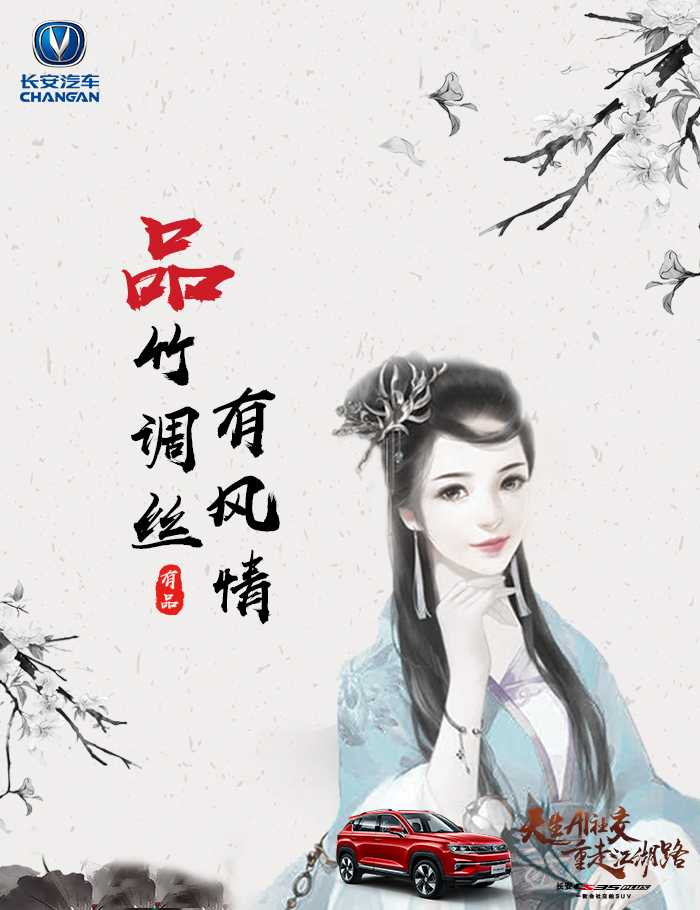
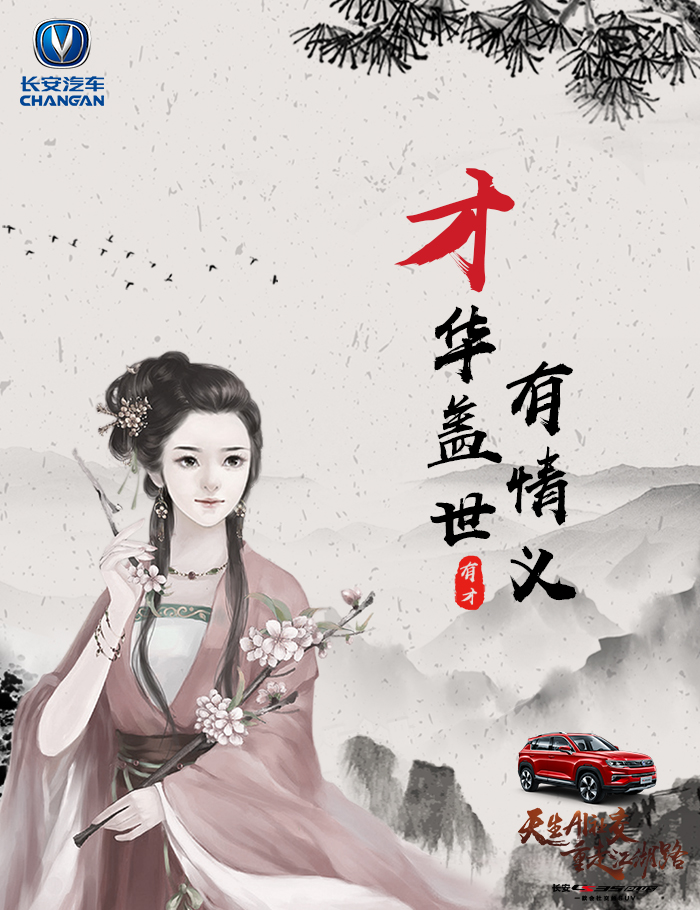
:recycle: refactor: 修改配置

diff --git a/renren-api/src/main/java/io/renren/service/FaceService.java b/renren-api/src/main/java/io/renren/service/FaceService.java
@@ -95,6 +95,11 @@ public class FaceService {
             if (detectResult.getFaces().isEmpty()) {
                 return new MutablePair<>(StateConsts.FAIL, null);
             }
+
+//            DetectResult detect = detect(srcBuff);
+//            if (detect.getFaces().isEmpty()){
+//                return new MutablePair<>(StateConsts.FAIL, null);
+//            }
             DetectResult.FacesBean.FaceRectangleBean faceRectangle = detectResult.getFaces().get(0).getFace_rectangle();
             map.put("template_rectangle", faceRectangle.getTop() + "," + faceRectangle.getLeft() + "," + faceRectangle.getWidth() + "," + faceRectangle.getHeight());
 

diff --git a/renren-api/src/main/java/io/renren/controller/FaceController.java b/renren-api/src/main/java/io/renren/controller/FaceController.java
@@ -37,9 +37,9 @@ public class FaceController {
 
     public static final String IMG_PATH = "/static/img/";
     /**
-     * 才，品，谱，型
+     * 品，才，型，谱
      */
-    private String[] imgUrls = new String[]{"temp1.jpg", "temp2.jpg", "temp3.jpg", "temp4.jpg"};
+    private String[] imgUrls = new String[]{"temp2.jpg", "temp1.jpg", "temp4.jpg", "temp3.jpg"};
 
     @PostMapping("merge")
     @ApiOperation(value = "合成图片")

diff --git a/README.md b/README.md
@@ -96,7 +96,7 @@ renren-security
 <br>
 
 - Eclipse、IDEA运行ApiApplication.java，则可启动项目【renren-api】
-- renren-api访问路径：http://localhost:8081/renren-api/swagger-ui.html
+- renren-api访问路径：http://localhost:8081/cInfo-api/swagger-ui.html
 
 <br>
 
@@ -124,12 +124,6 @@ renren-security
 - 官方社区：https://www.renren.io/community
 - gitee仓库：https://gitee.com/renrenio/renren-security
 - github仓库：https://github.com/renrenio/renren-security
-- [人人开源](https://www.renren.io)：https://www.renren.io   
-- 官方QQ群：324780204、145799952
-- 如需关注项目最新动态，请Watch、Star项目，同时也是对项目最好的支持
-- 技术讨论、二次开发等咨询、问题和建议，请移步到官方社区，我会在第一时间进行解答和回复！
-- 微信扫码并关注【人人开源】，获得项目最新动态及更新提醒<br>
-![输入图片说明](http://cdn.renren.io/47c26201804031918312618.jpg "在这里输入图片标题")
 <br>
 <br>
 
